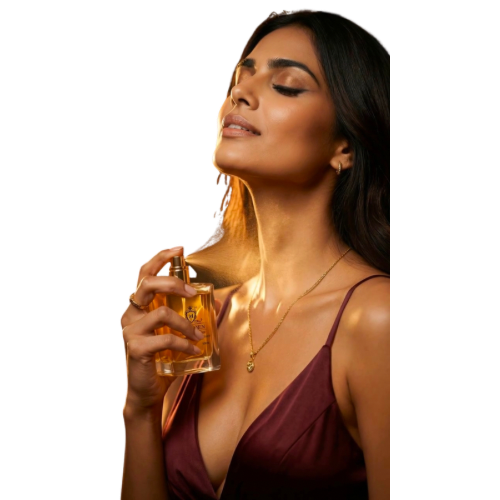
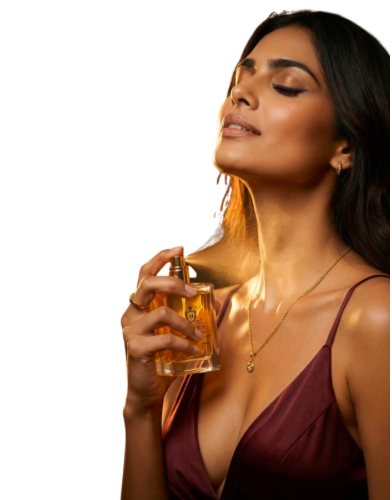
dwds

diff --git a/src/pages/HomePage.tsx b/src/pages/HomePage.tsx
@@ -78,16 +78,18 @@ export default function HomePage() {
                 variants={fadeUp}
                 custom={1}
                 onClick={() => navigate('/collection')}
-                className="group relative row-span-2 cursor-pointer overflow-hidden rounded-2xl border border-[#2a2a2a] bg-[radial-gradient(circle_at_50%_105%,rgba(201,168,76,0.18),transparent_42%),linear-gradient(180deg,#1a1a1a,#111111)] p-4 text-center shadow-[inset_0_1px_0_rgba(255,255,255,0.05)] lg:rounded-[1.4rem]"
+                className="group relative row-span-2 flex cursor-pointer flex-col overflow-hidden rounded-2xl border border-[#2a2a2a] bg-[radial-gradient(circle_at_50%_105%,rgba(201,168,76,0.18),transparent_42%),linear-gradient(180deg,#1a1a1a,#111111)] px-0 pb-0 pt-4 text-center shadow-[inset_0_1px_0_rgba(255,255,255,0.05)] lg:rounded-[1.4rem]"
               >
-                <p className="relative z-10 font-serif text-base font-semibold text-brand-dark lg:text-2xl">Men&apos;s</p>
-                <img
-                  src={bentoMen}
-                  alt="Men's fragrance"
-                  className="pointer-events-none absolute inset-0 h-full w-full object-cover object-[center_20%]"
-                  loading="lazy"
-                  decoding="async"
-                />
+                <p className="relative z-10 flex-shrink-0 px-4 font-serif text-base font-semibold text-brand-dark lg:text-2xl">Men&apos;s</p>
+                <div className="relative z-0 mt-2 min-h-0 flex-1 overflow-hidden">
+                  <img
+                    src={bentoMen}
+                    alt="Men's fragrance"
+                    className="pointer-events-none absolute bottom-0 left-0 h-full w-auto max-w-none object-contain object-left"
+                    loading="lazy"
+                    decoding="async"
+                  />
+                </div>
                 <div className="pointer-events-none absolute inset-0 bg-gradient-to-b from-[#111111]/85 via-transparent to-transparent" aria-hidden />
               </motion.article>
 
@@ -105,16 +107,18 @@ export default function HomePage() {
                 variants={fadeUp}
                 custom={3}
                 onClick={() => navigate('/collection')}
-                className="group relative row-span-2 cursor-pointer overflow-hidden rounded-2xl border border-[#2a2a2a] bg-[radial-gradient(circle_at_50%_105%,rgba(201,168,76,0.18),transparent_42%),linear-gradient(180deg,#1a1a1a,#111111)] p-4 text-center shadow-[inset_0_1px_0_rgba(255,255,255,0.05)] lg:rounded-[1.4rem]"
+                className="group relative row-span-2 flex cursor-pointer flex-col overflow-hidden rounded-2xl border border-[#2a2a2a] bg-[radial-gradient(circle_at_50%_105%,rgba(201,168,76,0.18),transparent_42%),linear-gradient(180deg,#1a1a1a,#111111)] px-0 pb-0 pt-4 text-center shadow-[inset_0_1px_0_rgba(255,255,255,0.05)] lg:rounded-[1.4rem]"
               >
-                <p className="relative z-10 font-serif text-base font-semibold text-brand-dark lg:text-2xl">Women&apos;s</p>
-                <img
-                  src={bentoWomen}
-                  alt="Women's fragrance"
-                  className="pointer-events-none absolute inset-0 h-full w-full object-cover object-[center_25%]"
-                  loading="lazy"
-                  decoding="async"
-                />
+                <p className="relative z-10 flex-shrink-0 px-4 font-serif text-base font-semibold text-brand-dark lg:text-2xl">Women&apos;s</p>
+                <div className="relative z-0 mt-2 min-h-0 flex-1 overflow-hidden">
+                  <img
+                    src={bentoWomen}
+                    alt="Women's fragrance"
+                    className="pointer-events-none absolute bottom-0 right-0 h-full w-auto max-w-none object-contain object-right"
+                    loading="lazy"
+                    decoding="async"
+                  />
+                </div>
                 <div className="pointer-events-none absolute inset-0 bg-gradient-to-b from-[#111111]/85 via-transparent to-transparent" aria-hidden />
               </motion.article>
 